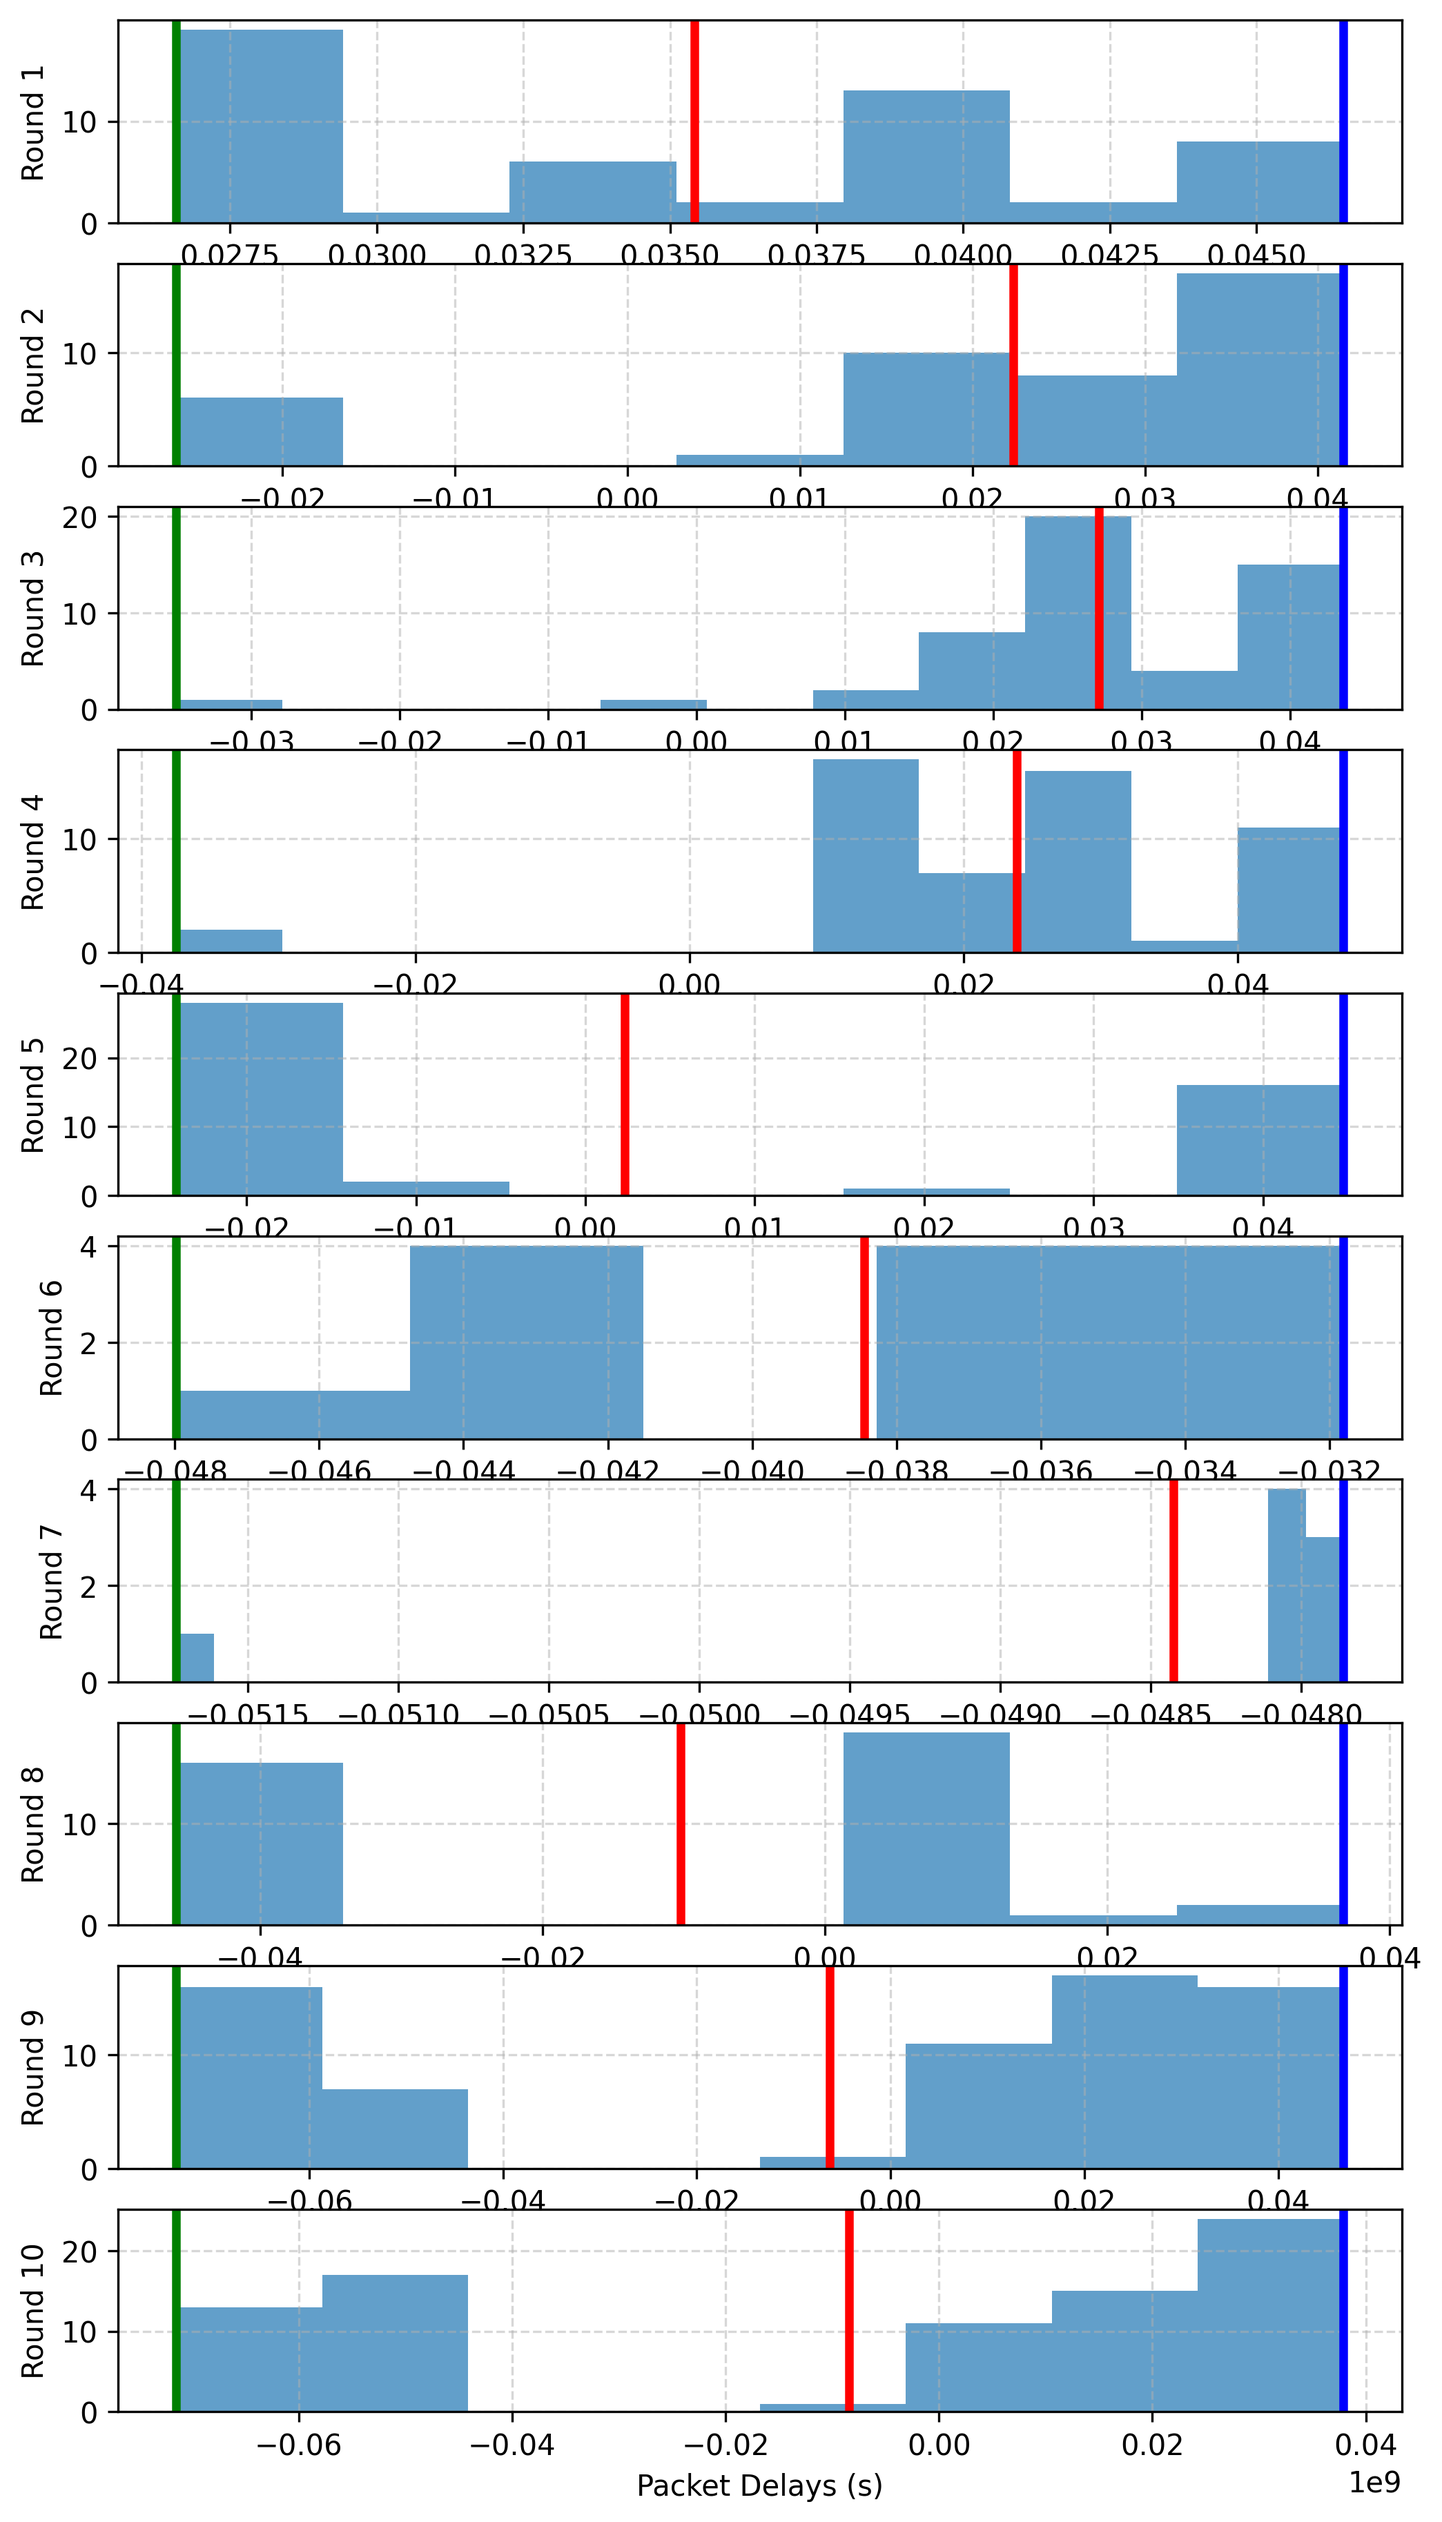
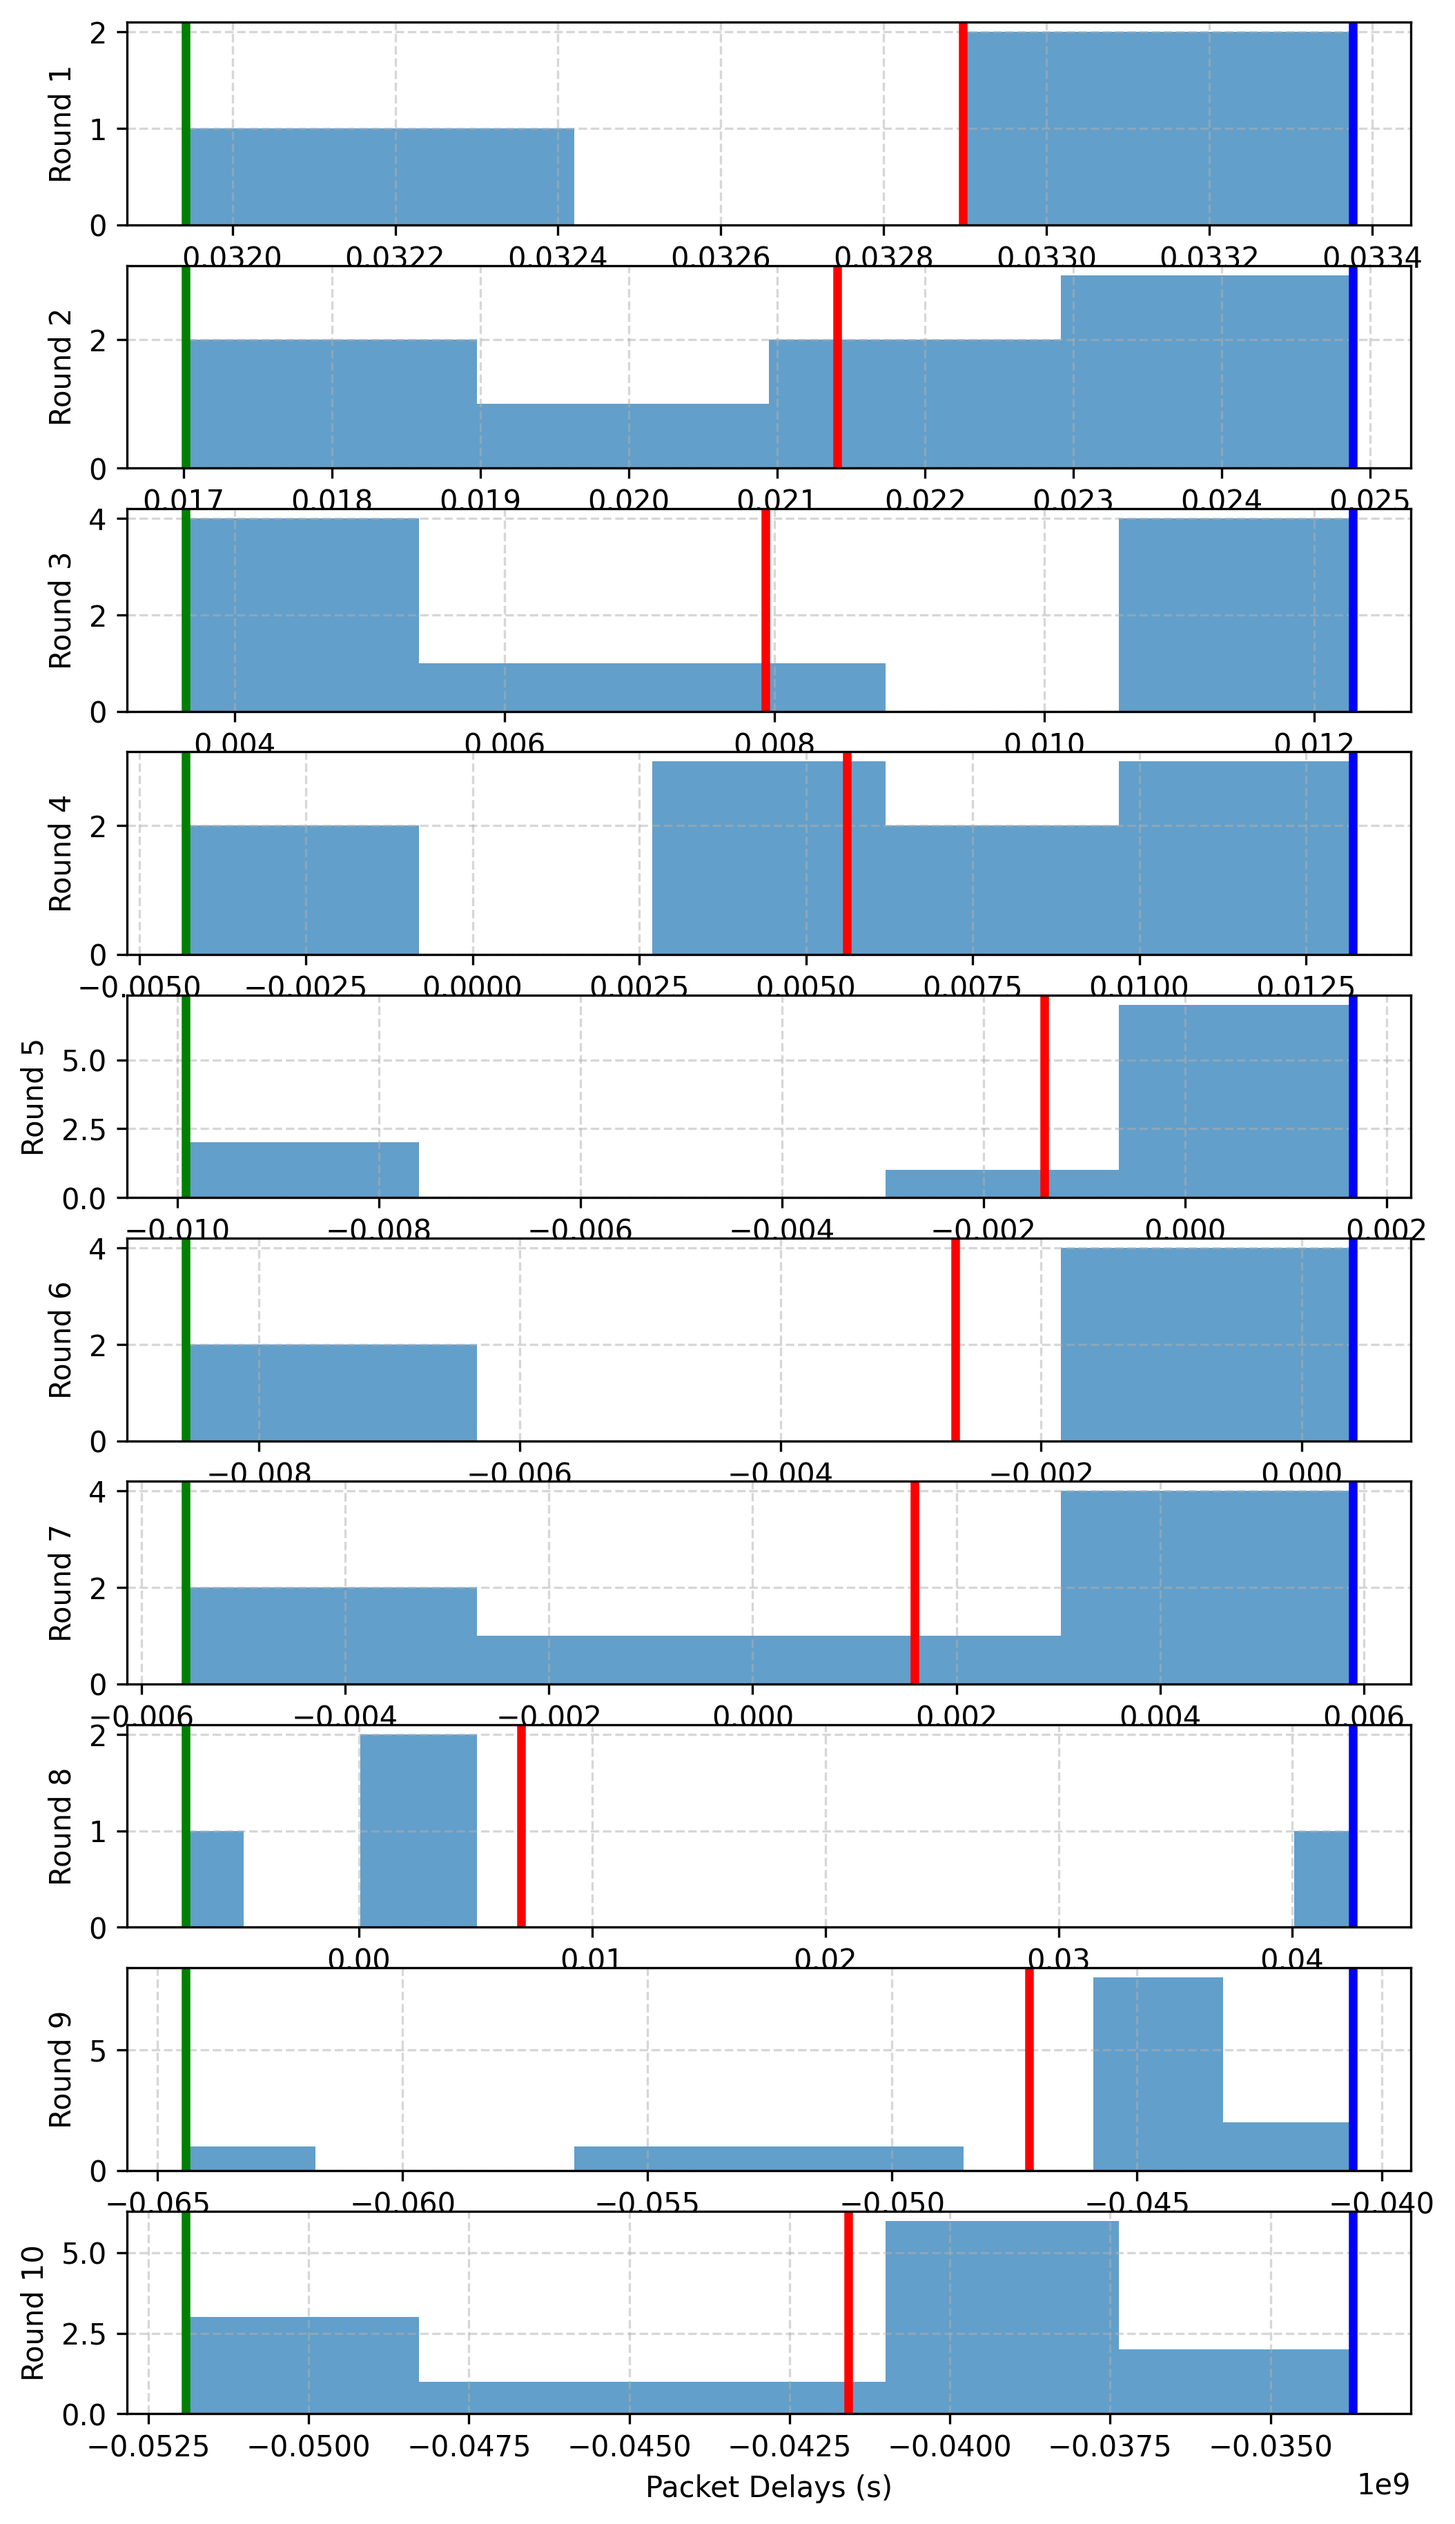
New charts

diff --git a/docs/logs/generateReport.py b/docs/logs/generateReport.py
@@ -6,9 +6,9 @@ import numpy as np
 import matplotlib.ticker as mticker
 
 SLOT_LEN_MICRO = 1000000
-TEST_NAME = 'ratdma-sync'
-TEST_TYPE = '2nodes-50ms'
-NODES = ['drone1','drone2']
+TEST_NAME = 'star-topology'
+TEST_TYPE = 'tdma'
+NODES = ['drone1','drone2', 'drone3', 'drone4', 'drone5', 'drone6']
 PATH = './' + TEST_NAME + '/' + TEST_TYPE + '/'
 MAX_ROUNDS = 10
 ROUND_OFFSET = 1
